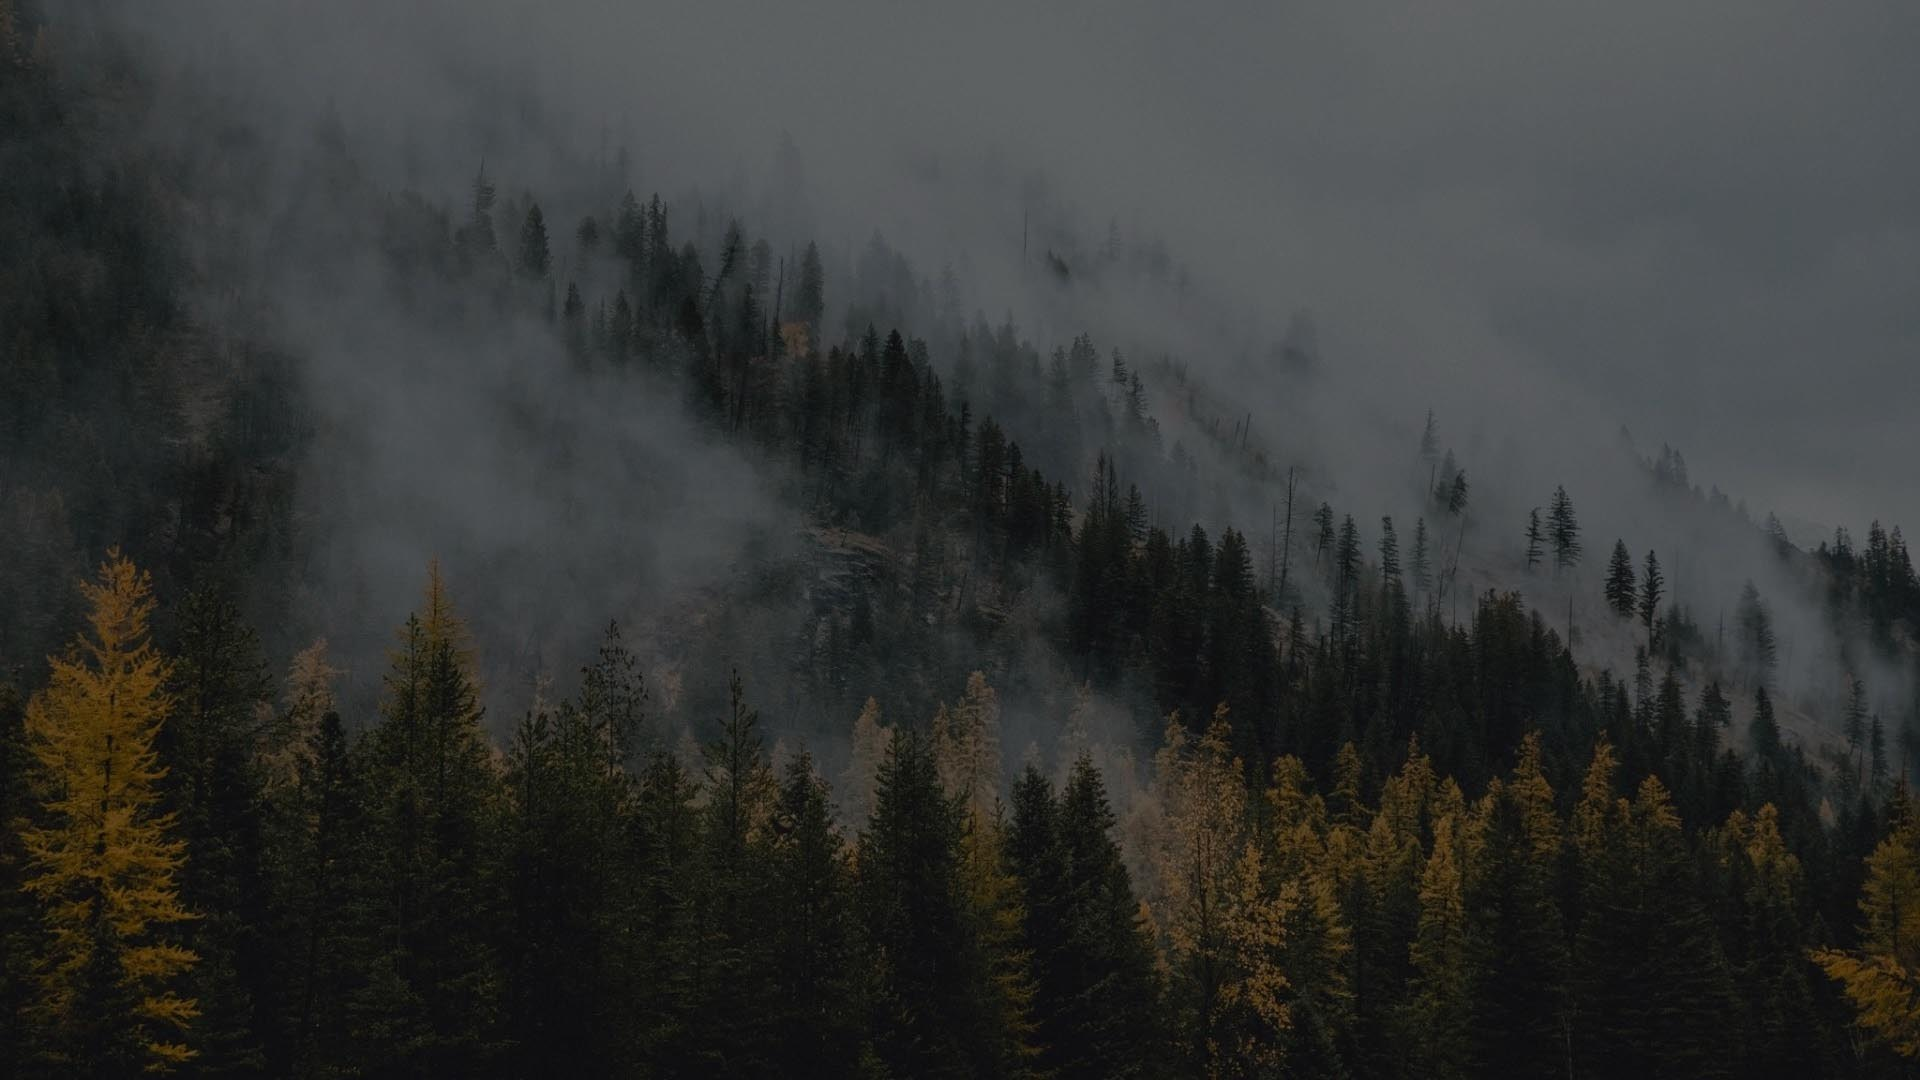
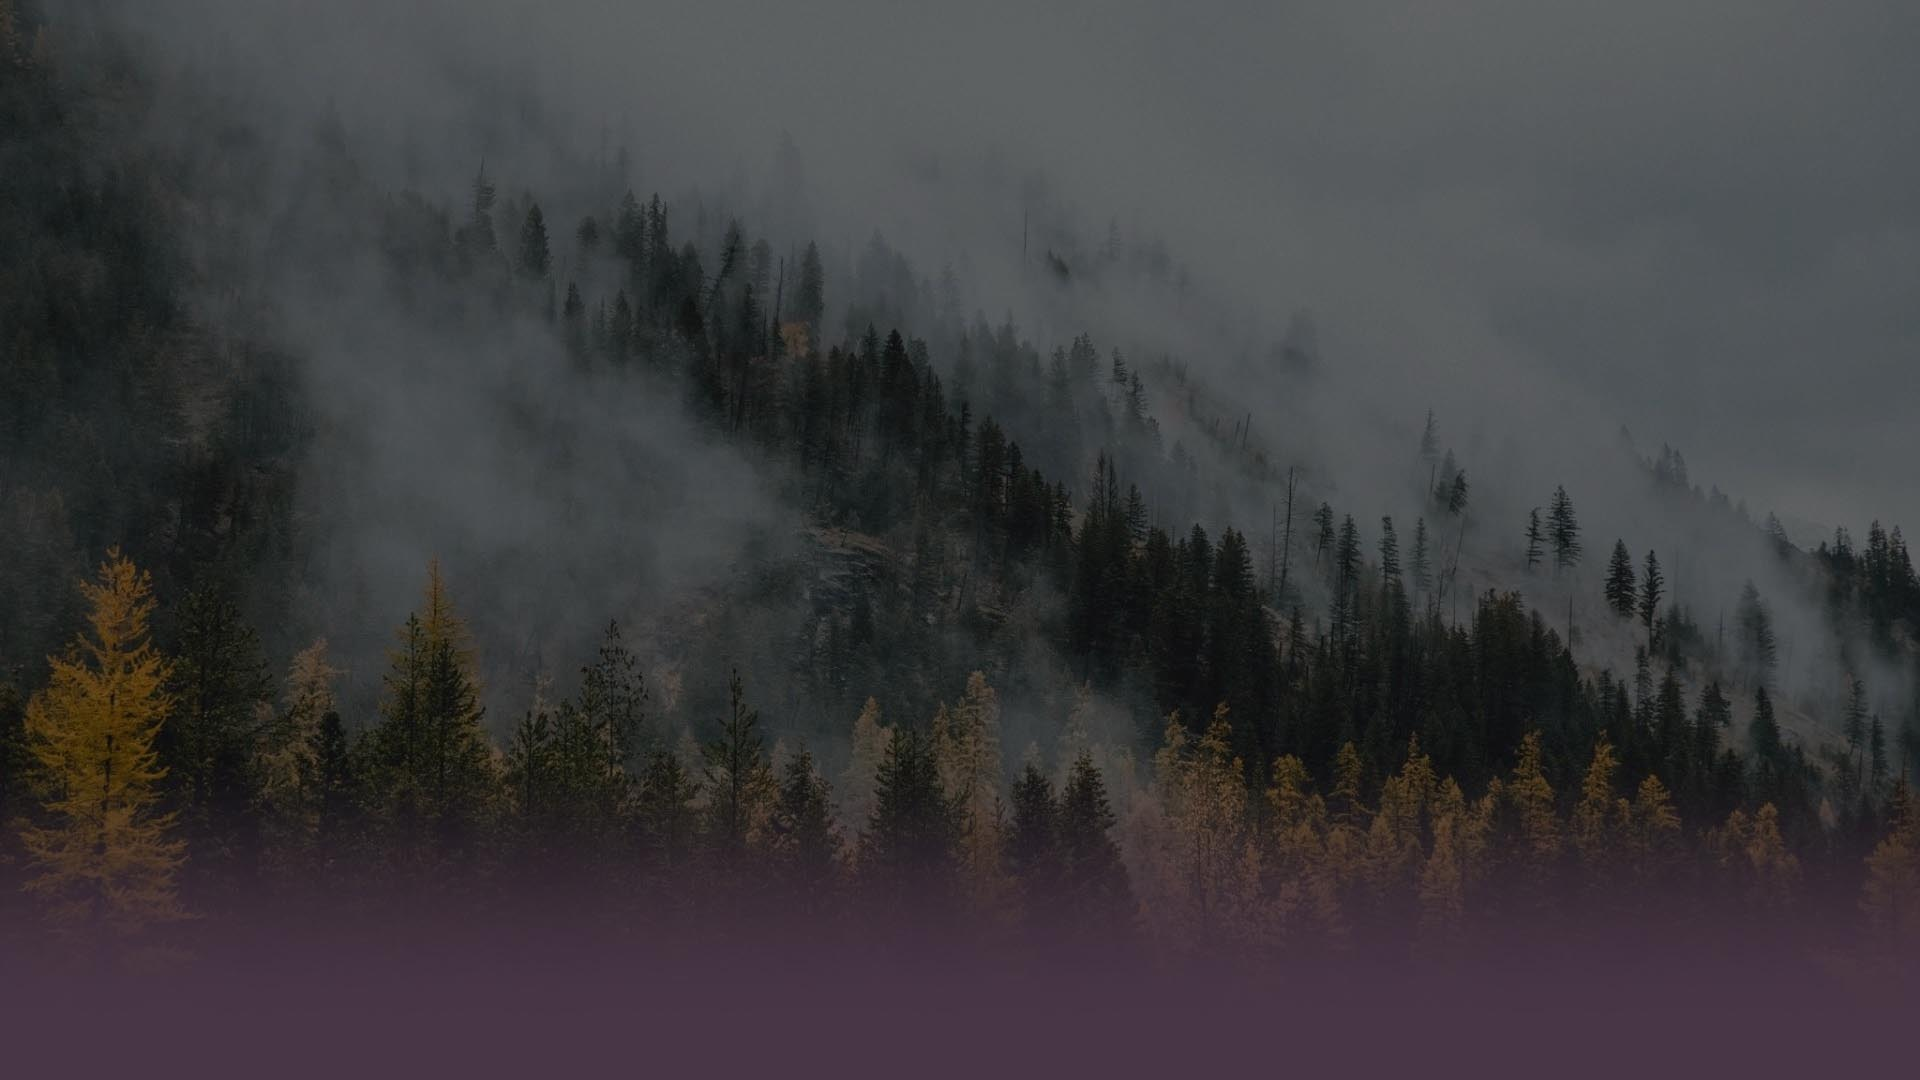
minor changes in design

Changed region(s): [[0.0, 0.7639, 1.0, 1.0]]

diff --git a/index.html b/index.html
@@ -27,8 +27,9 @@
         <div class=" container mt-4">
             <form id="gif-form">
                 <div class="form-group row">
-                        <div class="col-sm-12 col-md-12 col-lg-12">
-                        <input type="text" class="form-control" id="gif-input" aria-describedby="emailHelp" placeholder="Search for a gif">
+                    <div class="col-sm-12 col-md-12 col-lg-12">
+                        <input type="text" class="form-control" id="gif-input" aria-describedby="emailHelp"
+                            placeholder="Search for a gif">
                     </div>
                 </div>
                 <div class="form-group row">
@@ -39,8 +40,10 @@
                 </div>
             </form>
         </div>
+
     </div>
     <div class=" container">
+        <hr class="spacer">
         <div class="row">
             <div class="col-sm-12 col-md-12 col-lg-12 text-center" id="buttons-content">
 

diff --git a/assets/css/style.css b/assets/css/style.css
@@ -1,5 +1,5 @@
 body{
-    background-color:#dfdfdf;
+    background-color:#483645;
 }
 
 .gifContainer{
@@ -8,8 +8,16 @@ body{
 
 .header{
     padding-top: 100px;
-    padding-bottom: 100px;
+    padding-bottom: 50px;
     background-image: url("../images/bg.jpg");
+    background-size: cover;
+    background-position: bottom;
+}
+
+.spacer{
+    background-color: lightgray;
+    margin-top: 50px;
+    margin-bottom: 50px;
 }
 
 #gif-form{
